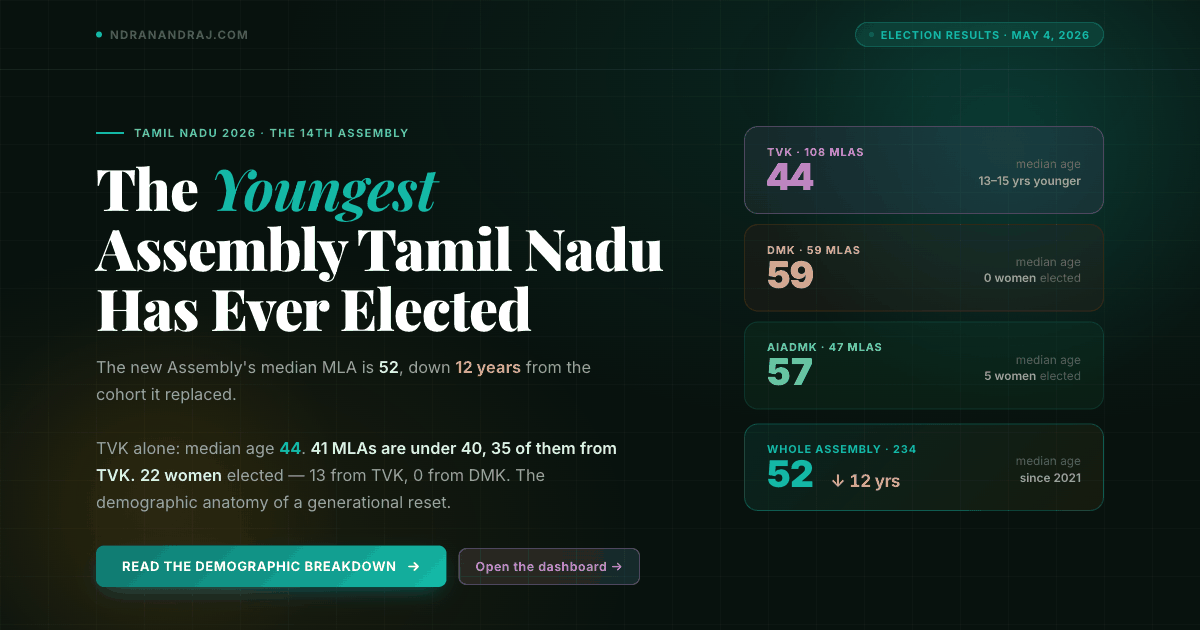
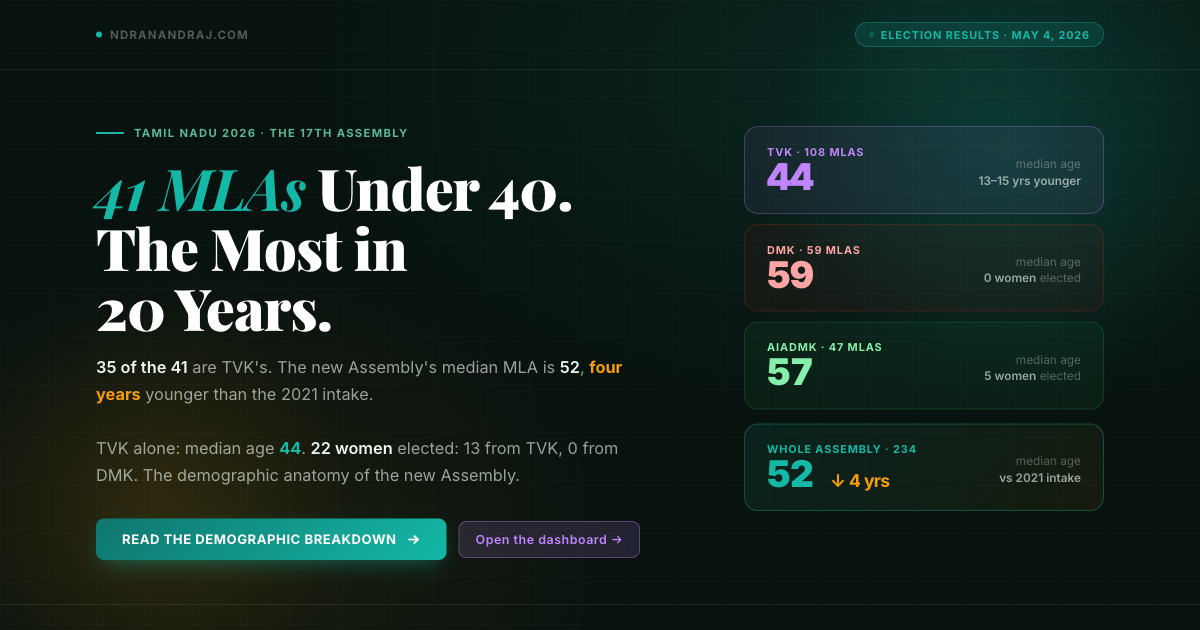
Correct the assembly profile post: 41 MLAs under 40, not the youngest ever
Checked against ECI age data for 2006 to 2021 (DataMeet, TCPD/OpenCity).
The 2006 and 2011 Assemblies were younger at the median (48, 51) than 2026
(52), and by MyNeta's coding 2021 had more graduates (60% vs 53%), so the
"youngest, most-educated assembly ever" headline did not hold. The true record
is 41 MLAs under 40, the most since age records begin in 2006; that is now the
headline. The "12-year compression" compared ages at dissolution with ages at
election; like for like the drop is 4 years (56 to 52).

Also fixed in the post: the history table (figures and Assembly numbers; 2026
is the 17th), youngest DMK MLA (D. Gowtham, 32, not Udhayanidhi Stalin), the
AIADMK and under-45 counts, one woman among the youngest five (not two),
Kamali S's runner-up (BJP's L. Murugan), and a method note pointing at a
script that does not exist. Dated correction note added.

The same claims are corrected in link cards across four posts, the pillar
page, the 404 page, the dashboard index, the Explorer, and the cover page,
whose PNG is re-rendered. Two leftover superseded incumbent figures (55 others,
38 held / 37 to TVK) are fixed along the way.

diff --git a/static/election-dashboard/index.html b/static/election-dashboard/index.html
@@ -782,7 +782,7 @@ footer a:hover { color: var(--c-accent); }
             </div>
             <span style="font-size:0.62rem;font-weight:800;color:#5b5bd6;letter-spacing:0.06em;padding:3px 10px;border-radius:99px;background:rgba(154,139,255,0.12);border:1px solid rgba(154,139,255,0.3);">CHIEF MINISTER</span>
           </div>
-          <h3 style="font-size:1.4rem;margin:0;color:var(--c-text);line-height:1.3;font-weight:800;">The Chief Minister lost his seat. So did 55 other sitting MLAs.</h3>
+          <h3 style="font-size:1.4rem;margin:0;color:var(--c-text);line-height:1.3;font-weight:800;">The Chief Minister lost his seat. So did 92 other sitting MLAs.</h3>
           <p style="color:var(--c-text-2);font-size:0.92rem;line-height:1.7;margin:0;">M.K. Stalin lost <strong style="color:var(--c-text)">Kolathur by 8,795 votes</strong> to V.S. Babu of TVK, his own former associate. He had won the same seat in 2021 by 70,384 votes. He's one of <strong style="color:var(--c-text)">93 sitting MLAs</strong> who defended their seat in 2026 and lost. <strong style="color:#7C3AED">64 of those defeats came from TVK directly.</strong> Of 234 outgoing incumbents: 56 held their seat, 93 lost it, 11 lost a different seat too, 7 won by shifting, and 67 are off the ballot entirely. A 23.9% same-seat retention rate, the lowest in modern TN history.</p>
           <div style="display:flex;gap:10px;flex-wrap:wrap;">
             <a class="cover-pill" href="cover-incumbents-defeated-2026.html" style="display:inline-flex;align-items:center;gap:6px;padding:9px 18px;background:rgba(239,68,68,0.10);border:1px solid rgba(239,68,68,0.5);color:#7F1D1D;border-radius:40px;text-decoration:none;font-weight:700;font-size:0.8rem;transition:all 0.2s;" onmouseover="this.style.background='rgba(239,68,68,0.20)'" onmouseout="this.style.background='rgba(239,68,68,0.10)'">Cover page</a>
@@ -800,12 +800,12 @@ footer a:hover { color: var(--c-accent); }
           <div style="display:flex;align-items:center;gap:12px;flex-wrap:wrap;">
             <div style="font-size:0.68rem;color:#0F766E;text-transform:uppercase;letter-spacing:0.1em;font-weight:700;display:flex;align-items:center;gap:8px;">
               <span style="width:7px;height:7px;border-radius:50%;background:#14B8A6;"></span>
-              Story 4 · The 14th Assembly profile
+              Story 4 · The 17th Assembly profile
             </div>
-            <span style="font-size:0.62rem;font-weight:800;color:#0F766E;letter-spacing:0.06em;padding:3px 10px;border-radius:99px;background:rgba(20,184,166,0.12);border:1px solid rgba(20,184,166,0.3);">YOUNGEST EVER</span>
+            <span style="font-size:0.62rem;font-weight:800;color:#0F766E;letter-spacing:0.06em;padding:3px 10px;border-radius:99px;background:rgba(20,184,166,0.12);border:1px solid rgba(20,184,166,0.3);">41 UNDER 40</span>
           </div>
-          <h3 style="font-size:1.4rem;margin:0;color:var(--c-text);line-height:1.3;font-weight:800;">Tamil Nadu just elected its youngest, most-educated assembly ever.</h3>
-          <p style="color:var(--c-text-2);font-size:0.92rem;line-height:1.7;margin:0;">Median MLA age dropped to <strong style="color:var(--c-text)">52</strong>, a 12-year compression from the cohort it replaced. <strong style="color:#7C3AED">TVK's median MLA is 44</strong>, against 59 for DMK and 57 for AIADMK. <strong style="color:var(--c-text)">41 MLAs are under 40</strong>, 35 of them from TVK alone. <strong style="color:#BE185D">22 women elected — 13 from TVK, 0 from DMK.</strong> Two of the youngest five (both 28-year-old TVK MLAs with Master's degrees) are women. The whole assembly is 53% graduate-or-higher, the most-educated in TN history.</p>
+          <h3 style="font-size:1.4rem;margin:0;color:var(--c-text);line-height:1.3;font-weight:800;">Tamil Nadu just elected 41 MLAs under 40, the most in 20 years.</h3>
+          <p style="color:var(--c-text-2);font-size:0.92rem;line-height:1.7;margin:0;">Median MLA age is <strong style="color:var(--c-text)">52</strong>, four years younger than the 2021 intake at election. <strong style="color:#7C3AED">TVK's median MLA is 44</strong>, against 59 for DMK and 57 for AIADMK. <strong style="color:var(--c-text)">41 MLAs are under 40</strong>, 35 of them from TVK alone. <strong style="color:#BE185D">22 women elected — 13 from TVK, 0 from DMK.</strong> The youngest woman, Kamali S of TVK, is 28. 53% of the Assembly is graduate-or-higher.</p>
           <div style="display:flex;gap:10px;flex-wrap:wrap;">
             <a class="cover-pill" href="cover-new-assembly-profile-2026.html" style="display:inline-flex;align-items:center;gap:6px;padding:9px 18px;background:rgba(20,184,166,0.10);border:1px solid rgba(20,184,166,0.5);color:#134E4A;border-radius:40px;text-decoration:none;font-weight:700;font-size:0.8rem;transition:all 0.2s;" onmouseover="this.style.background='rgba(20,184,166,0.20)'" onmouseout="this.style.background='rgba(20,184,166,0.10)'">Cover page</a>
             <a href="/posts/tn-2026-new-assembly-profile/" style="display:inline-flex;align-items:center;gap:6px;padding:9px 18px;background:linear-gradient(135deg,#0F766E,#14B8A6);color:#1C1917;border-radius:40px;text-decoration:none;font-weight:700;font-size:0.8rem;box-shadow:0 4px 14px rgba(20,184,166,0.35);">Read the demographic breakdown →</a>

diff --git a/static/election-dashboard/cover-new-assembly-profile-2026.html b/static/election-dashboard/cover-new-assembly-profile-2026.html
@@ -3,11 +3,11 @@
 <head>
 <meta charset="UTF-8">
 <meta name="viewport" content="width=device-width, initial-scale=1.0">
-<title>The Youngest Assembly Tamil Nadu Has Ever Elected — TN 2026</title>
-<meta name="description" content="The new TN Assembly's median MLA is 52, down 12 years. TVK median 44 vs DMK 59 vs AIADMK 57. 41 MLAs under 40, 22 women elected. Two 28-year-old women in the youngest five.">
+<title>41 MLAs Under 40, the Most in 20 Years: TN 2026</title>
+<meta name="description" content="41 of Tamil Nadu's 234 new MLAs are under 40, the most in 20 years of records, 35 of them TVK. TVK median age 44 vs DMK 59 vs AIADMK 57. 22 women elected.">
 <!-- Open Graph -->
-<meta property="og:title" content="The Youngest Assembly Tamil Nadu Has Ever Elected">
-<meta property="og:description" content="Median MLA age dropped 12 years in one cycle. TVK median 44 vs DMK 59 vs AIADMK 57. 41 MLAs under 40 (35 from TVK alone). 22 women elected (13 from TVK, 0 from DMK). The demographic anatomy of Tamil Nadu's generational reset.">
+<meta property="og:title" content="Tamil Nadu just elected 41 MLAs under 40, the most in 20 years">
+<meta property="og:description" content="41 MLAs under 40, the most since at least 2006. TVK median 44 vs DMK 59 vs AIADMK 57. 41 MLAs under 40 (35 from TVK alone). 22 women elected (13 from TVK, 0 from DMK). The demographic anatomy of Tamil Nadu's generational reset.">
 <meta property="og:image" content="https://ndranandraj.com/images/new-assembly-profile-cover.png">
 <meta property="og:type" content="article">
 <meta property="og:url" content="https://ndranandraj.com/posts/tn-2026-new-assembly-profile/">
@@ -231,13 +231,13 @@ body { min-height: 100vh; display: flex; flex-direction: column; }
     <div class="hero-left">
       <div class="kicker">
         <div class="kicker-line"></div>
-        <span class="kicker-text">Tamil Nadu 2026 &middot; The 14th Assembly</span>
+        <span class="kicker-text">Tamil Nadu 2026 &middot; The 17th Assembly</span>
       </div>
-      <h1 class="hero-title">The <em>Youngest</em><br>Assembly Tamil Nadu<br>Has Ever Elected</h1>
+      <h1 class="hero-title"><em>41 MLAs</em> Under 40.<br>The Most in<br>20 Years.</h1>
       <p class="hero-sub">
-        The new Assembly's median MLA is <strong>52</strong>, down <span class="gold-num">12 years</span> from the cohort it replaced.
+        <strong>35 of the 41</strong> are TVK's. The new Assembly's median MLA is <strong>52</strong>, <span class="gold-num">four years</span> younger than the 2021 intake.
         <br><br>
-        TVK alone: median age <span class="teal-num">44</span>. <strong>41 MLAs are under 40, 35 of them from TVK.</strong> <strong class="rose">22 women</strong> elected — 13 from TVK, 0 from DMK. The demographic anatomy of a generational reset.
+        TVK alone: median age <span class="teal-num">44</span>. <strong class="rose">22 women</strong> elected: 13 from TVK, 0 from DMK. The demographic anatomy of the new Assembly.
       </p>
       <div class="cta-row">
         <a href="/posts/tn-2026-new-assembly-profile/" class="read-btn">
@@ -246,7 +246,7 @@ body { min-height: 100vh; display: flex; flex-direction: column; }
             <line x1="3" y1="8" x2="13" y2="8"/><polyline points="9 4 13 8 9 12"/>
           </svg>
         </a>
-        <a href="/election-dashboard/tvk-debut-2026.html" class="dash-btn">
+        <a href="/election-dashboard/tn-2026-explorer.html#demographics" class="dash-btn">
           Open the dashboard &rarr;
         </a>
       </div>
@@ -280,9 +280,9 @@ body { min-height: 100vh; display: flex; flex-direction: column; }
       <div class="age-card assembly">
         <div class="age-num-wrap">
           <div class="age-label">Whole assembly · 234</div>
-          <div class="age-num">52 <em>↓ 12 yrs</em></div>
+          <div class="age-num">52 <em>↓ 4 yrs</em></div>
         </div>
-        <div class="age-meta">median age<br><strong>since 2021</strong></div>
+        <div class="age-meta">median age<br><strong>vs 2021 intake</strong></div>
       </div>
     </div>
   </div>
@@ -376,7 +376,7 @@ body { min-height: 100vh; display: flex; flex-direction: column; }
     </div>
     <div class="footer-tags">
       <span class="ftag">Tamil Nadu 2026</span>
-      <span class="ftag">14th Assembly</span>
+      <span class="ftag">17th Assembly</span>
       <span class="ftag">Youngest MLAs</span>
       <span class="ftag">Women in Politics</span>
       <span class="ftag">Demographic Reset</span>

diff --git a/static/election-dashboard/tn-2026-explorer.html b/static/election-dashboard/tn-2026-explorer.html
@@ -727,7 +727,7 @@ tr:hover td { background: rgba(154,139,255,0.04); }
     <div class="section-header">
       <span class="h-eyebrow">Section 5 · Demographics of winners</span>
       <h2>Who actually got elected</h2>
-      <p>The 2026 assembly is younger than any in Tamil Nadu's recent history. Median MLA age fell 12 years from 2021. <strong>22 women elected</strong> (9.4%), 13 of them from TVK alone, zero from DMK. <strong>41 MLAs under 40</strong>, 35 of those from TVK. The youngest sitting MLA is 28.</p>
+      <p>The 2026 assembly has more MLAs under 40 than any since at least 2006. Median MLA age is 52, four years younger than the 2021 intake at election. <strong>22 women elected</strong> (9.4%), 13 of them from TVK alone, zero from DMK. <strong>41 MLAs under 40</strong>, 35 of those from TVK. The youngest sitting MLA is 28.</p>
     </div>
 
     <div class="kpi-strip" style="margin: 4px 0 18px; padding: 0;">
@@ -898,8 +898,8 @@ tr:hover td { background: rgba(154,139,255,0.04); }
       </a>
       <a href="/posts/tn-2026-new-assembly-profile/">
         <span class="ex-tag">The new MLAs</span>
-        <strong>The youngest assembly TN has elected</strong>
-        <span>Median MLA age fell 12 years. 41 MLAs under 40. 22 women. The generational reset.</span>
+        <strong>TN elected 41 MLAs under 40, the most in 20 years</strong>
+        <span>35 of them TVK. Median MLA age 52. 22 women. The demographic anatomy of the new Assembly.</span>
       </a>
       <a href="/posts/tn-2026-dummy-candidates-results/">
         <span class="ex-tag">The tactic</span>

diff --git a/layouts/404.html b/layouts/404.html
@@ -42,7 +42,7 @@
         <span class="not-found__popular-meta">11 min read</span>
       </li>
       <li>
-        <a href="/posts/tn-2026-new-assembly-profile/">Youngest, most-educated assembly TN has ever elected</a>
+        <a href="/posts/tn-2026-new-assembly-profile/">41 MLAs under 40, the most in 20 years</a>
         <span class="not-found__popular-meta">9 min read</span>
       </li>
     </ul>

diff --git a/content/posts/tn-2026-new-assembly-profile.md b/content/posts/tn-2026-new-assembly-profile.md
@@ -1,12 +1,12 @@
 ---
-title: "Tamil Nadu just elected its youngest, most-educated assembly ever"
+title: "Tamil Nadu just elected 41 MLAs under 40, the most in 20 years"
 date: 2026-05-07
 series: "TN 2026 Election Series"
 series_part: 4
-lastmod: 2026-05-07
-description: "The new Tamil Nadu Assembly's median MLA age is 52, twelve years younger than the cohort it replaced. 41 MLAs are under 40. 22 are women. TVK's 108 MLAs alone median 44 years old, with 13 women and a third of the bench under 40. The demographic anatomy of a generational reset."
-summary: "The 14th Tamil Nadu Assembly's median MLA is 52 years old, holds at least a Bachelor's degree, and declared roughly ₹1.5 crore in assets. TVK's median MLA is 44, against DMK's 59 and AIADMK's 57. A 13-year compression in one cycle. Here's what the new bench actually looks like."
-keywords: ["Tamil Nadu youngest assembly", "TN 2026 youngest MLAs", "youngest TVK MLAs Kamali Sabari Iyngaran", "Tamil Nadu women MLAs 2026", "TN assembly demographic profile", "TVK candidates age", "TN MLAs education levels", "Tamil Nadu 2026 women representation", "youngest MLA Tamil Nadu", "Tamil Nadu 14th assembly", "DMK AIADMK TVK age comparison"]
+lastmod: 2026-10-08
+description: "41 of Tamil Nadu's 234 new MLAs are under 40, the most in the 20 years of age records, and 35 of them are TVK's. TVK's median MLA is 44, against DMK's 59 and AIADMK's 57. 22 women were elected, 13 of them TVK. The demographic anatomy of the 2026 Assembly."
+summary: "The 17th Tamil Nadu Assembly has 41 MLAs under 40, more than any Assembly since at least 2006, and TVK supplies 35 of them. TVK's median MLA is 44; DMK's is 59, AIADMK's 57. Here's what the new bench actually looks like."
+keywords: ["Tamil Nadu MLAs under 40", "TN 2026 youngest MLAs", "youngest TVK MLAs Kamali Sabari Iyngaran", "Tamil Nadu women MLAs 2026", "TN assembly demographic profile", "TVK candidates age", "TN MLAs education levels", "Tamil Nadu 2026 women representation", "youngest MLA Tamil Nadu", "Tamil Nadu 17th assembly", "DMK AIADMK TVK age comparison"]
 tags: ["elections", "tamil-nadu", "data", "politics", "tvk", "2026", "results"]
 categories: ["Data"]
 pillar: true
@@ -16,23 +16,23 @@ TocOpen: false
 image: "/images/new-assembly-profile-cover.png"
 cover:
   image: "/images/new-assembly-profile-cover.png"
-  alt: "Tamil Nadu's 14th Assembly: median MLA age 52, down 12 years. TVK's 108 MLAs median 44 with 32% under 40."
-  caption: "Tamil Nadu's 14th Assembly is 12 years younger than its predecessor. The shift is concentrated in TVK's 108 MLAs."
+  alt: "Tamil Nadu's 17th Assembly: 41 MLAs under 40, 35 of them TVK. TVK's 108 MLAs have a median age of 44."
+  caption: "41 of the 234 new MLAs are under 40, the most in two decades. 35 of them are TVK's."
   relative: false
 ---
 
 <div class="series-hat">Part of the <a href="/tamil-nadu-elections-2026/">Tamil Nadu 2026 series →</a></div>
 
-The 234 people who walked into the Tamil Nadu Legislative Assembly after May 4 are, taken together, **the youngest cohort the state has elected in living electoral memory.** Median age: 52. The cohort they replaced (the 16th Assembly elected in 2021) had a median age of around 64 by the time it dissolved.
+**41 of the 234 people** who walked into the Tamil Nadu Legislative Assembly after May 4 are under 40. That is the most in the 20 years for which candidate ages are on record, ahead of 38 in 2006, and more than three times the 12 elected in 2021.
 
-That is a **12-year compression** of the legislature's median age, in one election cycle. Almost all of it is concentrated in TVK's 108 new MLAs.
+**35 of the 41 are TVK's.** The median MLA in the new Assembly is 52, four years younger than the 2021 intake was on the day it was elected (56). Almost all of that shift is TVK's 108 new MLAs.
 
 {{< pullquote >}}
 TVK's median MLA is 44. DMK's is 59. AIADMK's is 57. Vijay's party has put a generation of younger Tamils into the Assembly in numbers no other party has matched in 30 years.
 {{< /pullquote >}}
 
 {{< kpi-row >}}
-{{< kpi value="52" label="median age, new assembly" sub="down from 64 in the outgoing 16th Assembly" >}}
+{{< kpi value="52" label="median age, new assembly" sub="the 2021 intake was 56 at election" >}}
 {{< kpi value="44" label="median TVK MLA age" tone="accent" sub="13 to 15 years younger than DMK & AIADMK" >}}
 {{< kpi value="41" label="MLAs under age 40" tone="good" sub="35 of them from TVK alone" >}}
 {{< kpi value="22" label="women MLAs" sub="13 from TVK, 5 AIADMK, 0 DMK" >}}
@@ -54,9 +54,9 @@ TVK's median MLA is 44. DMK's is 59. AIADMK's is 57. Vijay's party has put a gen
 | Metric | TVK (108) | DMK (59) | AIADMK (47) | New assembly (234) |
 | :--- | ---: | ---: | ---: | ---: |
 | Median age | **44** | 59 | 57 | **52** |
-| Youngest winner | **28** | 35 | 29 | **28** |
+| Youngest winner | **28** | 32 | 29 | **28** |
 | MLAs under 40 | **35** (32%) | 2 (3%) | 3 (6%) | **41** (18%) |
-| MLAs under 45 | **52** (48%) | 5 (8%) | 6 (13%) | **68** (29%) |
+| MLAs under 45 | **57** (53%) | 4 (7%) | 5 (11%) | **68** (29%) |
 | Women MLAs | **13** (12%) | 0 (0%) | 5 (11%) | **22** (9.4%) |
 | Postgraduate or doctorate | 18 (17%) | 13 (22%) | 3 (6%) | 35 (15%) |
 | Graduate or higher | **58** (54%) | 38 (64%) | 18 (38%) | **123** (53%) |
@@ -64,11 +64,11 @@ TVK's median MLA is 44. DMK's is 59. AIADMK's is 57. Vijay's party has put a gen
 
 Three numbers stand out.
 
-**TVK's 35 under-40 MLAs are seven times what DMK and AIADMK have combined (5).** A third of TVK's bench has not yet hit 40. Across the rest of the assembly, that share is barely above 5%. The Tamil Nadu Legislative Assembly has skewed older for the entire 2010s and 2020s; this is the first cycle since the early DMK-MGR-Karunanidhi era where a single party has put in this many young voices.
+**TVK's 35 under-40 MLAs are seven times what DMK and AIADMK have combined (5).** A third of TVK's bench has not yet hit 40. Across the rest of the Assembly, that share is under 5%. The Assembly had been getting steadily older: the median MLA was 48 at the 2006 election, 51 in 2011, 54 in 2016 and 56 in 2021. No single party in those four Assemblies elected more than 16 MLAs under 40 (the DMK, in 2006). TVK elected 35.
 
 **TVK has 13 women MLAs. DMK has zero.** The women-representation picture in the new assembly is, frankly, embarrassing for the older Dravidian majors. Of the 22 women elected, 13 are TVK, 5 are AIADMK, and the remaining 4 are spread across INC, PMK, CPI(M), and DMDK (one each). DMK, the ruling party of the outgoing assembly, returns zero women MLAs in 2026. Tamil Nadu's overall representation rises modestly to 9.4%, almost entirely on TVK's roster.
 
-**TVK MLAs are roughly half as wealthy as the major-party MLAs they replaced.** Median declared assets: ₹1.09 crore for TVK, ₹1.91 crore for DMK, ₹2.15 crore for AIADMK. These are official self-declarations from the nomination affidavits, with all the usual caveats about how MLAs declare assets. But the directional gap is real and large. It is the first cycle in two decades where the dominant party in the Assembly is also the least wealthy of the three majors.
+**TVK MLAs are roughly half as wealthy as the major-party MLAs they replaced.** Median declared assets: ₹1.09 crore for TVK, ₹1.91 crore for DMK, ₹2.15 crore for AIADMK. These are official self-declarations from the nomination affidavits, with all the usual caveats about how MLAs declare assets. But the directional gap is real and large.
 
 ---
 
@@ -77,7 +77,7 @@ Three numbers stand out.
 
 ## The five youngest MLAs in the new assembly
 
-The youngest five winners are all under 30. Four of the five are TVK candidates. Two are women.
+The youngest five winners are all 30 or younger. Four of the five are TVK candidates. One is a woman.
 
 | Age | Name | Constituency | Party | Education |
 | ---: | :--- | :--- | :--- | :--- |
@@ -87,17 +87,17 @@ The youngest five winners are all under 30. Four of the five are TVK candidates.
 | 30 | Rhevanth Charan | Maduravoyal | TVK | Not declared |
 | 30 | Sabarinathan R | Virugampakkam | TVK | Bachelor's Degree |
 
-**Kamali S is the youngest woman to enter the Tamil Nadu Legislative Assembly in 25 years.** She unseated AIADMK's incumbent in Avanashi (a Kongu-belt seat AIADMK had won in 2011, 2016, and 2021) on her first electoral attempt at the age of 28, with a Master's degree, and by a margin of 15,373 votes.
+**Kamali S, 28, ties the youngest woman elected to the Assembly in the 20 years of age records** (a 28-year-old DMK candidate also won in 2006). She took Avanashi, a Kongu-belt seat the AIADMK had won in 2011, 2016 and 2021, on her first electoral attempt, with a Master's degree. Her margin over the NDA candidate, Dr. L. Murugan of the BJP, was 15,373 votes (6.64%).
 
-For comparison, the youngest DMK MLA in the new assembly is 35 (Udhayanidhi Stalin, the only DMK winner under 40). The youngest AIADMK MLA is 29 (Dr. Dhilipan Jaishankar). Every other AIADMK winner is in their 40s, 50s, or older.
+For comparison, the youngest DMK MLA in the new Assembly is 32 (D. Gowtham, Vanur), one of only two DMK winners under 40. The youngest AIADMK MLA is 29 (Dr. Dhilipan Jaishankar, Sankarankovil), and two other AIADMK winners are under 40.
 
 ---
 
 ## The education shift
 
-The 14th Assembly is also, by a clear margin, the most-educated Assembly Tamil Nadu has elected.
+123 of the 234 new MLAs (53%) hold at least a Bachelor's degree, and **35 hold postgraduate or doctorate-level qualifications**, including TVK's 18 PG-or-higher MLAs and DMK's 13.
 
-123 of the 234 new MLAs (53%) hold at least a Bachelor's degree, the highest share in TN's history. **35 hold postgraduate or doctorate-level qualifications**, including TVK's 18 PG-or-higher MLAs and DMK's 13.
+That is not a record. By MyNeta's coding of the same kind of affidavits, 141 of the 2021 intake (60%) were graduates or above, and 53 had postgraduate degrees or doctorates. The two years are coded by different sources, so the exact gap is uncertain, but the new Assembly is not more educated than the one it replaced.
 
 TVK's roster is interesting on this dimension specifically. The party's median MLA holds a Bachelor's degree, but the spread is wider than DMK's or AIADMK's: 17% with postgraduate qualifications (DMK 22%, AIADMK 6%), 54% graduate-or-higher (DMK 64%, AIADMK 38%), and the remaining 46% with a mix of higher-secondary, secondary, and vocational training. That is more like the population education pyramid than DMK's relatively top-loaded distribution.
 
@@ -105,30 +105,31 @@ Worth noting, with appropriate caveats: education declarations on Indian nominat
 
 ---
 
-## What changed: a 12-year compression in one cycle
+## What changed: four years younger, and far more MLAs under 40
 
-Tamil Nadu Assembly median MLA age over the last four cycles:
+Median MLA age at election, for every Assembly with age records:
 
-| Assembly | Year elected | Median MLA age (at election) |
-| :--- | ---: | ---: |
-| 14th (current) | 2026 | **52** |
-| 13th | 2021 | ~58 |
-| 12th | 2016 | ~58 |
-| 11th | 2011 | ~57 |
+| Election | Assembly | Median MLA age | MLAs under 40 |
+| ---: | :--- | ---: | ---: |
+| 2026 | 17th (current) | **52** | **41** |
+| 2021 | 16th | 56 | 12 |
+| 2016 | 15th | 54 | 20 |
+| 2011 | 14th | 51 | 21 |
+| 2006 | 13th | 48 | 38 |
 
-The 5-6 year drop in median age between 2021 and 2026 is the largest single-cycle compression in modern TN Assembly history. The previous four cycles had hovered in the 56-58 range.
+The median had risen at every election since 2006, from 48 to 56. In 2026 it fell four years in one cycle. This is not the youngest Assembly on record: the 2006 and 2011 intakes were younger at the median. What is new is the number of MLAs under 40, and how many of them come from one party.
 
-Almost all of the drop is TVK. If you remove TVK's 108 MLAs from the calculation, the remaining 126 MLAs have a median age of around 58, in line with historical baselines. Add TVK back in and the median collapses to 52. The "youngest assembly ever" framing is, mathematically, almost identical to "the assembly with TVK in it."
+Almost all of the change is TVK. Remove TVK's 108 MLAs and the remaining 126 have a median age of 58, older than the 2021 intake. Add TVK back in and the median falls to 52. The younger Assembly is, in effect, the TVK bench.
 
-That has implications for 2031 that are worth thinking about now. If TVK's young roster turns into a bench of long-tenure MLAs, the 14th Assembly's age compression will hold and likely deepen as natural demographic replacement compounds. If the wave compresses and the older Dravidian majors recover seats, the 14th becomes a one-off and the median snaps back. Both are plausible. The question is whether anti-incumbency in the *new* incumbents in 2031 is the same magnitude as the anti-incumbency we just witnessed.
+That has implications for 2031 that are worth thinking about now. If TVK's young roster turns into a bench of long-tenure MLAs, the 17th Assembly's age shift will hold and likely deepen as natural demographic replacement compounds. If the wave compresses and the older Dravidian majors recover seats, the 17th becomes a one-off and the median snaps back. Both are plausible. The question is whether anti-incumbency in the *new* incumbents in 2031 is the same magnitude as the anti-incumbency we just witnessed.
 
 ---
 
 ## What this is, and isn't
 
-**Is**: a demographic accounting of the 234 MLAs in the 14th Tamil Nadu Assembly, derived from candidate-level age, education, gender, and asset declarations in the [open 2026 candidates dataset](/data/tn-2026-candidates/). Every number traces back to ECI nomination affidavits.
+**Is**: a demographic accounting of the 234 MLAs in the 17th Tamil Nadu Assembly, derived from candidate-level age, education, gender, and asset declarations in the [open 2026 candidates dataset](/data/tn-2026-candidates/). Every number traces back to ECI nomination affidavits.
 
-**Isn't**: a claim about *governance quality*. Younger MLAs, more women MLAs, and more graduate-degree-holding MLAs are not, by themselves, predictors of better legislation. The composition of the 14th Assembly is the visible part of TVK's coalition-building strategy and the simultaneous incumbency-collapse of the old majors. Whether it produces different-looking governance is a question that gets answered over the five years of this Assembly's term, not on the day the count finished.
+**Isn't**: a claim about *governance quality*. Younger MLAs and more women MLAs are not, by themselves, predictors of better legislation. The composition of the 17th Assembly is the visible part of TVK's coalition-building strategy and the simultaneous incumbency-collapse of the old majors. Whether it produces different-looking governance is a question that gets answered over the five years of this Assembly's term, not on the day the count finished.
 
 The companion post on [the 93 sitting MLAs who were defeated](/posts/tn-2026-incumbents-defeated/) maps the *flow* (who left). This post maps the *stock* (who is now there). Read together they describe the generational reset.
 
@@ -152,7 +153,7 @@ The companion post on [the 93 sitting MLAs who were defeated](/posts/tn-2026-inc
 </a>
 <a href="/posts/tn-2026-incumbents-defeated/">
   <strong>The Chief Minister lost his seat</strong>
-  <span>The flow side of the same story. M.K. Stalin and 55 other sitting MLAs lost in 2026. 37 to TVK directly.</span>
+  <span>The flow side of the same story. M.K. Stalin was one of 93 sitting MLAs who defended their seat and lost, 64 of them to TVK.</span>
 </a>
 <a href="/posts/tvk-debut-2026/">
   <strong>TVK 233: A Debut, Mapped</strong>
@@ -169,9 +170,11 @@ The companion post on [the 93 sitting MLAs who were defeated](/posts/tn-2026-inc
 </div>
 
 {{< callout title="Methodology" type="method" >}}
-Source: `processed/candidates_2026_export.csv`, the canonical 4,023-row roster joined to the 234 declared winners from `raw/free_sources/tn_2026_results.csv`. Age, gender, education, and asset declarations come from candidate nomination affidavits (ECI Form 26). Education is normalized into seven buckets (Doctorate, Postgraduate, Graduate, Higher Secondary, Secondary, Primary, Other / Not declared) before aggregation. Asset values are in lakh; "Not declared" rows are excluded from medians. Code: [`pipelines/28_assembly_profile.py`](https://github.com/ndranandraj/tn-2026-candidates-dataset). Released under [CC BY 4.0](https://creativecommons.org/licenses/by/4.0/).
+Source: `processed/candidates_2026_export.csv`, the canonical 4,023-row roster joined to the 234 declared winners from `raw/free_sources/tn_2026_results.csv`. Age, gender, education, and asset declarations come from candidate nomination affidavits (ECI Form 26). Education is normalized into seven buckets (Doctorate, Postgraduate, Graduate, Higher Secondary, Secondary, Primary, Other / Not declared) before aggregation. Asset values are in lakh; "Not declared" rows are excluded from medians. Historical ages and the 2006 to 2021 comparisons come from the ECI results as compiled by DataMeet (2006, 2011) and TCPD/OpenCity (2016, 2021); those files carry no ages before 2006. The 2021 education figures use MyNeta's coding in the TCPD file. The calculation is a one-off script over the [public dataset](https://github.com/ndranandraj/tn-2026-candidates-dataset). Released under [CC BY 4.0](https://creativecommons.org/licenses/by/4.0/).
 {{< /callout >}}
 
 ---
 
-*Released under [CC BY 4.0](https://creativecommons.org/licenses/by/4.0/). Suggested citation: Anand Raj, "Tamil Nadu Just Elected Its Youngest, Most-Educated Assembly Ever." ndranandraj.com, May 2026.*
+*Correction, October 8, 2026: this post originally ran under the headline "Tamil Nadu just elected its youngest, most-educated assembly ever". Neither claim holds. The 2006 and 2011 Assemblies were younger at the median (48 and 51 against 52), and by MyNeta's coding the 2021 Assembly had a higher share of graduates (60% against 53%). The post also described a "12-year compression", which compared the 2021 MLAs' ages at dissolution with the new MLAs' ages at election; measured the same way, the drop is four years (56 to 52). The history table's figures and Assembly numbers were wrong and have been replaced with figures computed from the ECI data. Also corrected: the youngest DMK MLA is 32 (D. Gowtham), not 35 (Udhayanidhi Stalin); two other AIADMK MLAs are under 40; the under-45 counts; only one of the five youngest MLAs is a woman, not two; Kamali S ties, rather than beats, the youngest woman elected since 2006, and her runner-up was the BJP's Dr. L. Murugan, not an AIADMK incumbent. The 2026 figures themselves (median 52, TVK 44, 41 under 40, 22 women) were right and are unchanged.*
+
+*Released under [CC BY 4.0](https://creativecommons.org/licenses/by/4.0/). Suggested citation: Anand Raj, "Tamil Nadu Just Elected 41 MLAs Under 40, the Most in 20 Years." ndranandraj.com, May 2026.*

diff --git a/content/posts/tn-2026-incumbents-defeated.md b/content/posts/tn-2026-incumbents-defeated.md
@@ -142,9 +142,9 @@ The point worth making: when **178 of 234 sitting members do not survive their s
 
 **Is**: a clean accounting of seat-level incumbent results from the official ECI tally. Every name, every margin, every margin percent traces back to `raw/free_sources/tn_2026_results.csv` and the cross-year `winner_history` from the project dataset.
 
-**Isn't**: a causal claim about why each individual lost. Stalin lost his seat. So did 55 other people. The reasons in each case are layered (anti-incumbency, candidate quality, alliance arithmetic, regional swing, the personal-vote collapse the 12-point compression in DMK's median age suggests). The ranked tables here surface what happened, not why.
+**Isn't**: a causal claim about why each individual lost. Stalin lost his seat. So did 92 other sitting MLAs who defended theirs. The reasons in each case are layered (anti-incumbency, candidate quality, alliance arithmetic, regional swing, the personal-vote collapse the 12-point compression in DMK's median age suggests). The ranked tables here surface what happened, not why.
 
-A second post on the **demographic profile of the 234 winners** ([read it here](/posts/tn-2026-new-assembly-profile/)) puts the 13-year compression in MLA median age and the wealth picture into the same frame. Together they sketch the generational replacement that one column of seat-flips is the surface effect of.
+A second post on the **demographic profile of the 234 winners** ([read it here](/posts/tn-2026-new-assembly-profile/)) puts the age shift (41 MLAs under 40, 35 of them TVK) and the wealth picture into the same frame. Together they sketch the generational replacement that one column of seat-flips is the surface effect of.
 
 ---
 
@@ -169,8 +169,8 @@ A second post on the **demographic profile of the 234 winners** ([read it here](
   <span>The companion analysis. 108 seats, 1.32 efficiency, regional anatomy, and the stronghold-flip asymmetry.</span>
 </a>
 <a href="/posts/tn-2026-new-assembly-profile/">
-  <strong>The youngest, most educated assembly TN has elected</strong>
-  <span>Median MLA age dropped 12 years. 41 MLAs are under 40. 22 women. The demographic side of the same wave.</span>
+  <strong>TN elected 41 MLAs under 40, the most in 20 years</strong>
+  <span>35 of them TVK. Median MLA age 52. 22 women. The demographic side of the same wave.</span>
 </a>
 <a href="/posts/tn-2026-dummy-candidates-results/">
   <strong>How many of the 329 dummies actually mattered</strong>

diff --git a/content/tamil-nadu-elections-2026.md b/content/tamil-nadu-elections-2026.md
@@ -4,7 +4,7 @@ date: 2026-05-18
 lastmod: 2026-05-18
 description: "The complete data analysis of Tamil Nadu's 2026 Assembly Election. TVK won 108 of 234 seats with 34.9% of the vote. DMK collapsed from 133 to 59. M.K. Stalin lost Kolathur. The interactive dashboard, the five-post series, the dataset, and the methodology, all in one place."
 summary: "Five investigations, one interactive dashboard, and the open dataset behind them. Everything published on this site about Tamil Nadu's 2026 Assembly Election, organised."
-keywords: ["Tamil Nadu 2026 election analysis", "TN 2026 results", "TVK 108 seats", "DMK collapse 2026", "MK Stalin Kolathur defeat", "Tamil Nadu Assembly election data", "TN 2026 interactive dashboard", "Vijay TVK debut", "Tamil Nadu election dataset", "TN 2026 incumbents defeated", "Tamil Nadu youngest assembly", "TN 2026 dummy candidates"]
+keywords: ["Tamil Nadu 2026 election analysis", "TN 2026 results", "TVK 108 seats", "DMK collapse 2026", "MK Stalin Kolathur defeat", "Tamil Nadu Assembly election data", "TN 2026 interactive dashboard", "Vijay TVK debut", "Tamil Nadu election dataset", "TN 2026 incumbents defeated", "Tamil Nadu MLAs under 40", "TN 2026 dummy candidates"]
 tags: ["elections", "tamil-nadu", "data", "politics", "tvk", "dmk", "2026", "results", "pillar"]
 categories: ["Data"]
 pillar: true
@@ -73,9 +73,9 @@ Each card targets a distinct angle of the same election: its headline number and
 <a class="hub-card" href="/posts/tn-2026-new-assembly-profile/">
 <span class="hub-card-cover" style="background-image:url('/images/new-assembly-profile-cover.png');"></span>
 <span class="hub-card-body">
-<span class="hub-card-stat"><b>52</b><i>median MLA age, down 12 years</i></span>
-<span class="hub-card-title">The Youngest, Most-Educated Assembly TN Has Elected</span>
-<span class="hub-card-take">41 MLAs under 40 and 22 women elected. A generational reset in a single election.</span>
+<span class="hub-card-stat"><b>41</b><i>MLAs under 40, the most in 20 years</i></span>
+<span class="hub-card-title">41 MLAs Under 40, 35 of Them TVK</span>
+<span class="hub-card-take">Median MLA age 52, four years younger than 2021. 22 women elected, 13 of them TVK.</span>
 <span class="hub-card-cta">Read the analysis →</span>
 </span>
 </a>

diff --git a/content/posts/tn-2026-explorer.md b/content/posts/tn-2026-explorer.md
@@ -39,8 +39,8 @@ Seven sections in one page. An **interactive map** of every constituency, colore
 
 - **TVK polled 34.9% of the vote and won 46.2% of the seats.** Efficiency ratio 1.32, the highest of any major party. AIADMK's 21.2% delivered 47 seats (0.95). BJP's 2.97% delivered just one (0.14). NTK's 4.0% delivered zero.
 - **DMK collapsed from 133 seats to 59.** The fall was not uniform. Chennai &amp; Suburbs alone dropped from 31 of 37 wins in 2021 to 2 of 37. Their three strongest 2021 regions (Chennai, Central, North) each lost 17 to 19 percentage points of vote share.
-- **Only 38 incumbents held their seat. 56 defended and lost.** 37 of those defeats came directly at TVK's hands. M.K. Stalin lost Kolathur to a 75-year-old debutant.
-- **The new assembly is 12 years younger than the outgoing one.** Median MLA age fell from 64 to 52. 41 MLAs are under 40, 35 of those from TVK. 22 women elected, 13 from TVK alone, zero from DMK.
+- **56 incumbents held their seat. 93 defended and lost.** 64 of those defeats came directly at TVK's hands. M.K. Stalin lost Kolathur to a 75-year-old debutant.
+- **41 MLAs are under 40, the most in 20 years of records.** 35 of those are TVK's. Median MLA age is 52, four years younger than the 2021 intake at election. 22 women elected, 13 from TVK alone, zero from DMK.
 
 {{< newsletter title="Want the next data deep-dive in your inbox?"
                body="The full TN 2026 series, the methodology pieces behind it, and the occasional travel essay. One email per post, no spam." >}}
@@ -67,8 +67,8 @@ The dashboard is the data spine. The narrative analyses live in the five posts o
   <span>M.K. Stalin defeated in Kolathur by 8,795 votes. 93 sitting MLAs defended their seat and lost.</span>
 </a>
 <a href="/posts/tn-2026-new-assembly-profile/">
-  <strong>The youngest assembly TN has elected</strong>
-  <span>Median MLA age fell 12 years. 41 under 40. 22 women. The generational reset.</span>
+  <strong>TN elected 41 MLAs under 40, the most in 20 years</strong>
+  <span>35 of them TVK. Median MLA age 52. 22 women. The demographic anatomy of the new Assembly.</span>
 </a>
 <a href="/posts/tn-2026-dummy-candidates-results/">
   <strong>Did the 329 dummies matter?</strong>

diff --git a/content/posts/tvk-debut-2026.md b/content/posts/tvk-debut-2026.md
@@ -120,7 +120,7 @@ M.K. Stalin lost Kolathur to V.S. Babu of TVK, his own former associate, by 8,79
 **[Read the full incumbents-defeated post →](/posts/tn-2026-incumbents-defeated/)**
 {{< /callout >}}
 
-{{< callout title="The youngest, most-educated assembly TN has elected" type="insight" >}}
+{{< callout title="41 MLAs under 40, the most in 20 years" type="insight" >}}
 Median MLA age in the new Assembly is **52**. TVK's median MLA is **44** (13 to 15 years younger than DMK and AIADMK). **41 MLAs are under 40, 35 of them from TVK.** **22 women** were elected statewide, 13 of them from TVK (DMK has zero).
 
 **[Read the full new-assembly-profile post →](/posts/tn-2026-new-assembly-profile/)**
@@ -379,8 +379,8 @@ AIADMK held Edappadi comfortably. The decision did not change a result. But it i
   <span>The deep-dive on the 93 sitting MLAs who lost. M.K. Stalin, PTR, Anbil Mahesh, Geetha Jeevan. Marquee table of every defeat.</span>
 </a>
 <a href="/posts/tn-2026-new-assembly-profile/">
-  <strong>Youngest, most-educated assembly TN has elected</strong>
-  <span>Median age dropped 12 years. 41 MLAs under 40. 22 women. Demographic anatomy of the generational reset.</span>
+  <strong>TN elected 41 MLAs under 40, the most in 20 years</strong>
+  <span>35 of the 41 are TVK. Median MLA age 52, four years younger than 2021. 22 women. The demographic anatomy of the new Assembly.</span>
 </a>
 <a href="/posts/tn-2026-dummy-candidates-results/">
   <strong>How many of the 329 dummies actually mattered</strong>

diff --git a/content/posts/dmk-collapse-2026.md b/content/posts/dmk-collapse-2026.md
@@ -113,8 +113,8 @@ DMK is now the second-largest party in the Tamil Nadu Assembly. They will lead t
   <span>93 sitting MLAs defended their seat and lost. 64 lost directly to TVK. M.K. Stalin was one of them.</span>
 </a>
 <a href="/posts/tn-2026-new-assembly-profile/">
-  <strong>The youngest assembly TN has elected</strong>
-  <span>Median MLA age fell 12 years. 41 MLAs are under 40. The generational reset.</span>
+  <strong>TN elected 41 MLAs under 40, the most in 20 years</strong>
+  <span>35 of them TVK. DMK has two. Median MLA age 52, four years younger than 2021.</span>
 </a>
 <a href="/posts/tn-2026-dummy-candidates-results/">
   <strong>Did the 329 dummies matter?</strong>
